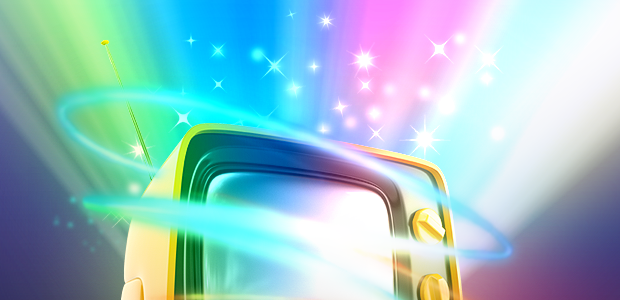
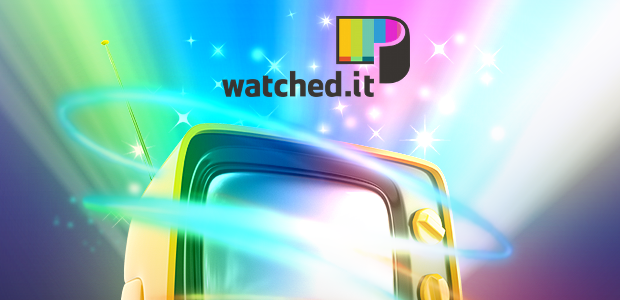
Larger fonts, watched.it stuff cleaned up

Changed region(s): [[0.3371, 0.03, 0.6742, 0.33]]

diff --git a/source/stylesheets/style.css b/source/stylesheets/style.css
@@ -29,3 +29,8 @@ ul.blog-titles .article-date {
   background-image: url(../img/octocat.png);
   background-position: 0 0;
 }
+
+p {
+  font-size: 14px;
+  line-height: 16px;
+}
